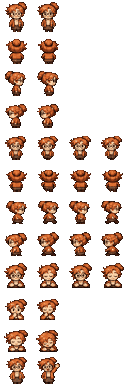
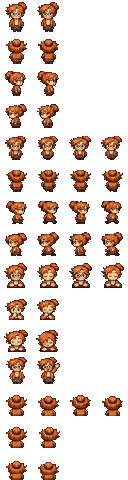
Add back-facing seated animations
The generated atlases only have front-facing seated poses. Derive
type/think/doze seated-from-behind frames from the idle_up back view
(shoulder bob, head tilt, head drop) and keep the originals as *_front.
Preview scene now seats agents in front of their desks.

Claude-Session: https://claude.ai/code/session_01Vwvk4goztu9BQiSCHRU6mW

diff --git a/tools/process_characters.py b/tools/process_characters.py
@@ -21,9 +21,13 @@ COLS = 4
 ROWS = [
     ("idle_down", 2), ("idle_up", 2), ("idle_right", 2), ("idle_left", 2),
     ("walk_down", 4), ("walk_up", 4), ("walk_right", 4), ("walk_left", 4),
-    ("type", 4), ("think", 2), ("doze", 2), ("ask", 2),
+    ("type_front", 4), ("think_front", 2), ("doze_front", 2), ("ask", 2),
 ]
-FRAME_RATES = {"idle": 2, "walk": 8, "type": 8, "think": 2, "doze": 1, "ask": 3}
+# Seated-from-behind rows, derived from the idle_up (back view) frames because the
+# source atlases only contain front-facing seated poses.
+BACK_ROWS = [("type", 4), ("think", 2), ("doze", 2)]
+ALL_ROWS = ROWS + BACK_ROWS
+FRAME_RATES = {"idle": 2, "walk": 8, "type": 4, "think": 2, "doze": 1, "ask": 3}
 
 
 def column_lines(m: np.ndarray) -> list[int]:
@@ -156,6 +160,56 @@ def portrait(arr, act_bottom):
     return quantize_opaque_only(downscale(sq, (64, 64)), 40)
 
 
+def split_head(frame):
+    """Return (top row, neck row) of a standing back-view frame (neck = narrowest row below the head)."""
+    m = opaque(frame)
+    rows = np.nonzero(m.any(1))[0]
+    top = int(rows[0])
+    widths = m.sum(1)
+    lo, hi = top + 8, min(top + 18, FRAME - 1)
+    neck = lo + int(np.argmin(widths[lo:hi]))
+    return top, neck
+
+
+def seated_back(frame, head_dx=0, head_dy=0, body_dy=0, sink=4):
+    """Build a seated, back-facing frame from a standing back-view frame.
+
+    The bottom `sink` rows (legs) are dropped and the figure lowered so the chair back
+    drawn on top hides the waist. Head and body can be nudged to animate.
+    """
+    top, neck = split_head(frame)
+    body = frame.copy()
+    body[:neck] = 0
+    head = frame.copy()
+    head[neck:] = 0
+    out = np.zeros_like(frame)
+
+    def paste(layer, dx, dy):
+        src = np.roll(np.roll(layer, dy, axis=0), dx, axis=1)
+        if dy > 0:
+            src[:dy] = 0
+        m = src[..., 3] > 0
+        out[m] = src[m]
+
+    paste(body, 0, sink + body_dy)
+    paste(head, head_dx, sink + head_dy)  # head drawn last so it overlaps the shoulders
+    return out
+
+
+def back_rows(sheet):
+    """Frames for the BACK_ROWS animations, built from idle_up (row 1)."""
+    up0 = sheet[FRAME : 2 * FRAME, 0:FRAME]
+    up1 = sheet[FRAME : 2 * FRAME, FRAME : 2 * FRAME]
+    return [
+        # typing: shoulders bob while the arms (hidden by the body) work the keyboard
+        [seated_back(up0), seated_back(up0, body_dy=1, head_dy=1), seated_back(up1), seated_back(up1, body_dy=1, head_dy=1)],
+        # thinking: head tilts to the side
+        [seated_back(up0), seated_back(up0, head_dx=1)],
+        # dozing: head drops forward
+        [seated_back(up0, head_dy=2), seated_back(up0, head_dy=3)],
+    ]
+
+
 def process(name):
     arr = load(SRC / "characters" / f"{name}_atlas.png")
     xs, cells, grid_bottom = find_sprite_rows(arr)
@@ -175,7 +229,7 @@ def process(name):
             heads = [head_width(s) for s in row if s is not None]
             row_scale.append(scale * ref_head / float(np.median(heads)) if heads else scale)
 
-    sheet = np.zeros((FRAME * len(ROWS), FRAME * COLS, 4), np.uint8)
+    sheet = np.zeros((FRAME * len(ALL_ROWS), FRAME * COLS, 4), np.uint8)
     anims = {}
     for r, ((anim, expected), row) in enumerate(zip(ROWS, cells)):
         frames = [s for s in row if s is not None][:expected]
@@ -189,6 +243,12 @@ def process(name):
             "frameRate": FRAME_RATES[kind],
             "repeat": -1,
         }
+    for i, ((anim, _), frames) in enumerate(zip(BACK_ROWS, back_rows(sheet))):
+        r = len(ROWS) + i
+        for c, fr in enumerate(frames):
+            sheet[r * FRAME : (r + 1) * FRAME, c * FRAME : (c + 1) * FRAME] = fr
+        anims[anim] = {"frames": [r * COLS + c for c in range(len(frames))],
+                       "frameRate": FRAME_RATES[anim], "repeat": -1}
     sheet = quantize_opaque_only(sheet, 32)
     save(sheet, OUT / "characters" / f"char_{name}.png")
     save(portrait(arr, grid_bottom), OUT / "portraits" / f"portrait_{name}.png")

diff --git a/tools/compose_preview.py b/tools/compose_preview.py
@@ -87,17 +87,14 @@ def main():
     state = ["desk_on_orange", "desk_on_orange", "desk_off", "desk_on_blue", "desk_on_blue"]
     for (dx, dy), name, st in zip(desks, who, state):
         obj(st, dx * T, dy * T)
-    # characters: seated typing (action row 8) behind desks, one standing, one dozing
-    for i, ((dx, dy), name) in enumerate(zip(desks, who)):
-        row = {0: 8, 1: 9, 2: 10, 3: 8, 4: 8}[i]
-        char(name, row, 0, dx * T, dy * T - 14)
+    # characters sit in front of their desk with their back to the camera; the chair back
+    # is drawn over them. Back-seated rows: 12 = type, 13 = think, 14 = doze.
+    seated_row = {"manager": 13, "researcher": 12, "writer": 14, "cursor": 12, "copilot": 12}
     for (dx, dy), name in zip(desks, who):
-        obj("chair_back", dx * T + 10, dy * T + 8)
-    emote(0, 3 * T + 6, 8 * T - 52)   # manager thinking
-    emote(6, 7 * T + 6, 8 * T - 52)   # researcher searching
-    emote(3, 3 * T + 6, 12 * T - 52)  # writer sleeping
-    emote(7, 7 * T + 6, 12 * T - 52)  # cursor coding
-    emote(9, 11 * T + 6, 12 * T - 52)  # copilot remote
+        char(name, seated_row[name], 0, dx * T, dy * T + 12)
+        obj("chair_back", dx * T + 10, dy * T + 17)
+    for (dx, dy), em in zip(desks, [0, 6, 3, 7, 9]):  # thinking, search, sleep, code, remote
+        emote(em, dx * T + 6, dy * T - 42)
 
     obj("whiteboard", 17.5 * T, 9 * T)
     obj("meeting_table", 16.5 * T, 13 * T)
